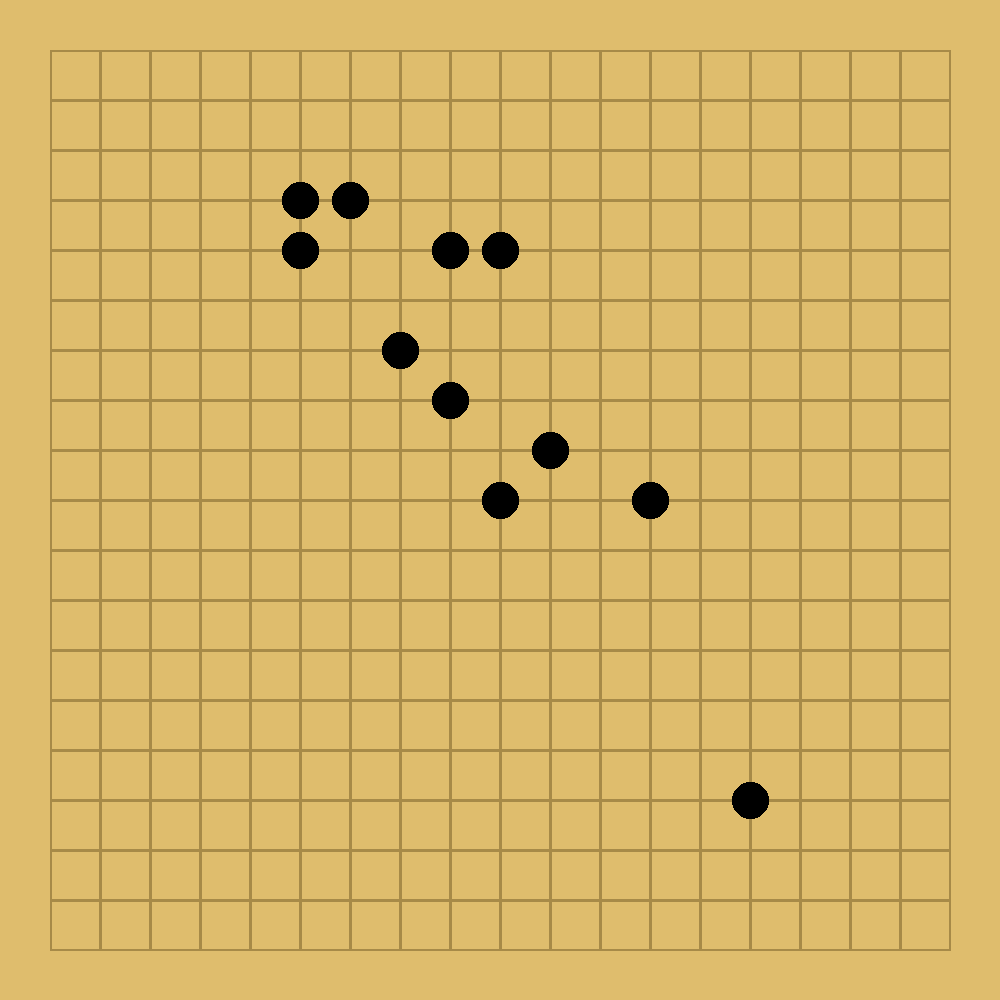
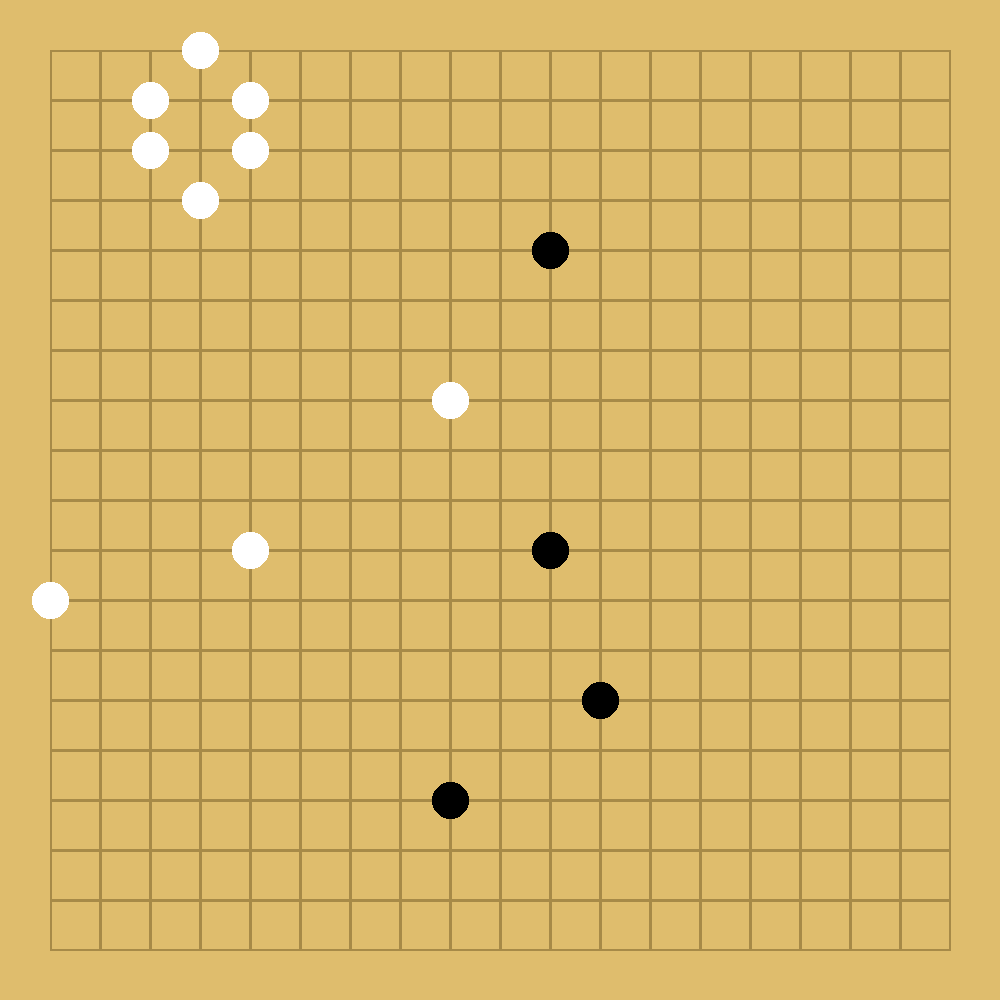
final game viewing fix

diff --git a/static/js/game_board.js b/static/js/game_board.js
@@ -8,11 +8,14 @@ var node_size = board_size / (String(+size + +'1'))
 
 socket = io.connect('http://' + document.domain + ':' + location.port + '/');
 
+var prev_color = 'black'
+
 socket.on('moved', function(data) {
     // Обновляем картинку игровой доски
-    d = new Date();
-    $("#board-pic").attr("src", "/static/img/board.png?"+d.getTime());
-    var picture = document.getElementById('board-pic');
+    prev_color = data.color
+    d = new Date()
+    $("#board-pic").attr("src", "/static/img/board.png?"+d.getTime())
+    var picture = document.getElementById('board-pic')
     var padding = node_size / 2
     picture.style.paddingRight = padding
     picture.style.width = String(board_size) + 'px'
@@ -21,11 +24,11 @@ socket.on('moved', function(data) {
 
 function make_move(move) {
             console.log(move)
-            socket.emit('make_move', {'move': move});
+            socket.emit('make_move', {'move': move, 'prev_color': prev_color});
         }
 
 function pass() {
-            socket.emit('make_move', {'move': ''});
+            socket.emit('make_move', {'move': '', 'prev_color': prev_color});
         }
 
 window.onload = function set_size() {

diff --git a/main.py b/main.py
@@ -1,6 +1,9 @@
 import string
 import random
-from flask import Flask, render_template, redirect, make_response, jsonify, session, request, url_for
+from pprint import pprint
+
+from flask import Flask, render_template, redirect, make_response, jsonify, session, request, \
+    url_for
 from flask_restful import Api
 from flask_login import LoginManager, login_user, login_required, logout_user, current_user
 from flask_socketio import SocketIO, emit, join_room, leave_room, rooms
@@ -22,6 +25,9 @@ api = Api(app)
 
 login_manager = LoginManager()
 login_manager.init_app(app)
+
+GAMES = {}
+BOARDS = {}
 
 
 def keygen(l):
@@ -161,7 +167,9 @@ def game(game_id):
 
     game_session = db.query(Game).get(game_id)
     size = game_session.size
-    session['game'] = game_board.init_game(size)
+    GAMES[game_id] = game_board.init_game(size)
+
+    session["game_id"] = game_id
     if int(game_session.players.split(";")[0]) == current_user.id:
         session["color"] = "white"
     else:
@@ -172,17 +180,22 @@ def game(game_id):
 
 @socketio.on('make_move')
 def move(data):
+    prev_color = data["prev_color"]
     move = data['move']
-    color = session['color']
-    if move != '':
-        # Апдейтим карту, если юзер сходил
-        y, x = list(map(int, move.split('-')))
-        session['game'] = game_board.get_updated_game(session['game'], color, move=(x, y))
-    else:
-        # Если юзер пропустил ход, то просто менеям цвет (игрока то бишь)
-        session['game'] = game_board.get_updated_game(session['game'], color, move='pass')
+    color = session["color"]
 
-    emit('moved', {'success': 'OK'}, broadcast=True)
+    if prev_color != color:
+        if move != '':
+            y, x = list(map(int, move.split('-')))
+            GAMES[session.get("game_id")] = game_board.get_updated_game(
+                GAMES[session.get("game_id")],  color,
+                move=(x, y))
+        else:
+            GAMES[session.get("game_id")] = game_board.get_updated_game(
+                GAMES[session.get("game_id")], color,
+                move='pass')
+
+    emit('moved', {'color': color}, broadcast=True)
 
 
 def main():

diff --git a/data/game_board.py b/data/game_board.py
@@ -1,4 +1,5 @@
 from PIL import Image, ImageDraw
+from copy import deepcopy
 
 STONES = {'black': 'X', 'white': 'O'}
 SIZES = {19: 1000 / 20, 13: 1000 / 14, 9: 1000 / 10}
@@ -7,7 +8,7 @@ SIZES = {19: 1000 / 20, 13: 1000 / 14, 9: 1000 / 10}
 def init_game(size):
     # Инициализирует начало игры, возвращая словарь информацией о текущей игре
     render_board([[' '] * size] * size)
-    board = {'board': [], 'color': 'white', 'counter': 0}
+    board = {'board': [], 'counter': 0}
     for row in range(size):
         for col in range(size):
             board['board'].append({'row': row, 'col': col, 'value': ' '})

diff --git a/data/games.py b/data/games.py
@@ -13,5 +13,4 @@ class Game(SqlAlchemyBase, UserMixin, SerializerMixin):
                            primary_key=True, autoincrement=True)
     lobby_id = sqlalchemy.Column(sqlalchemy.String)
     players = sqlalchemy.Column(sqlalchemy.String)
-
     size = sqlalchemy.Column(sqlalchemy.Integer)
